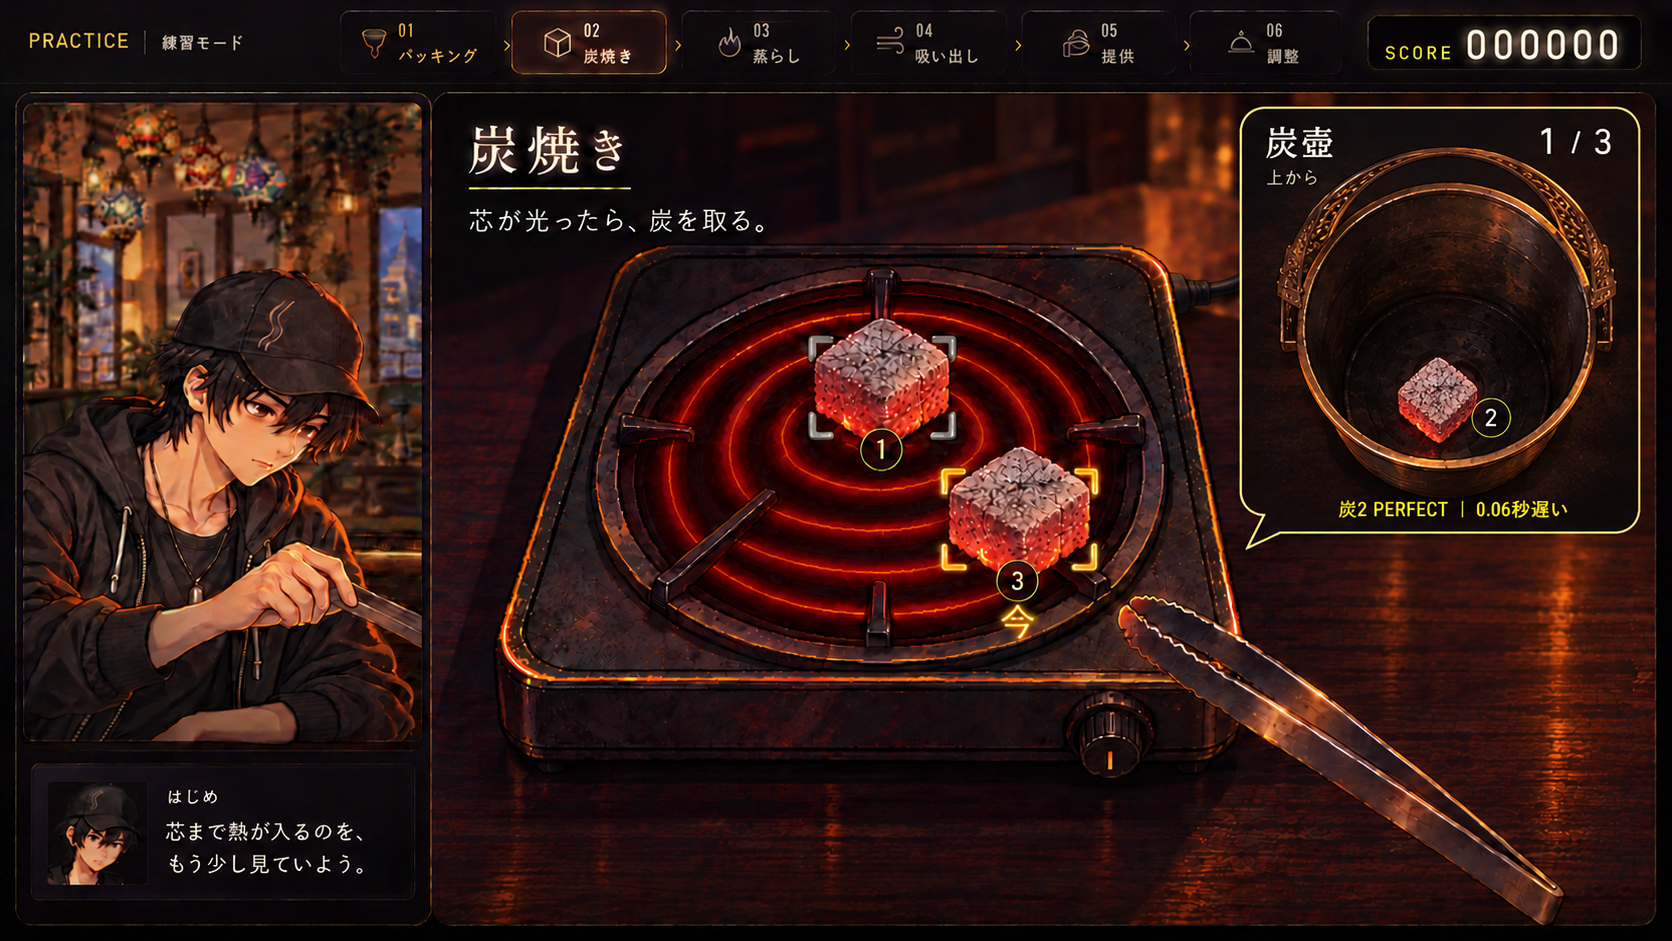
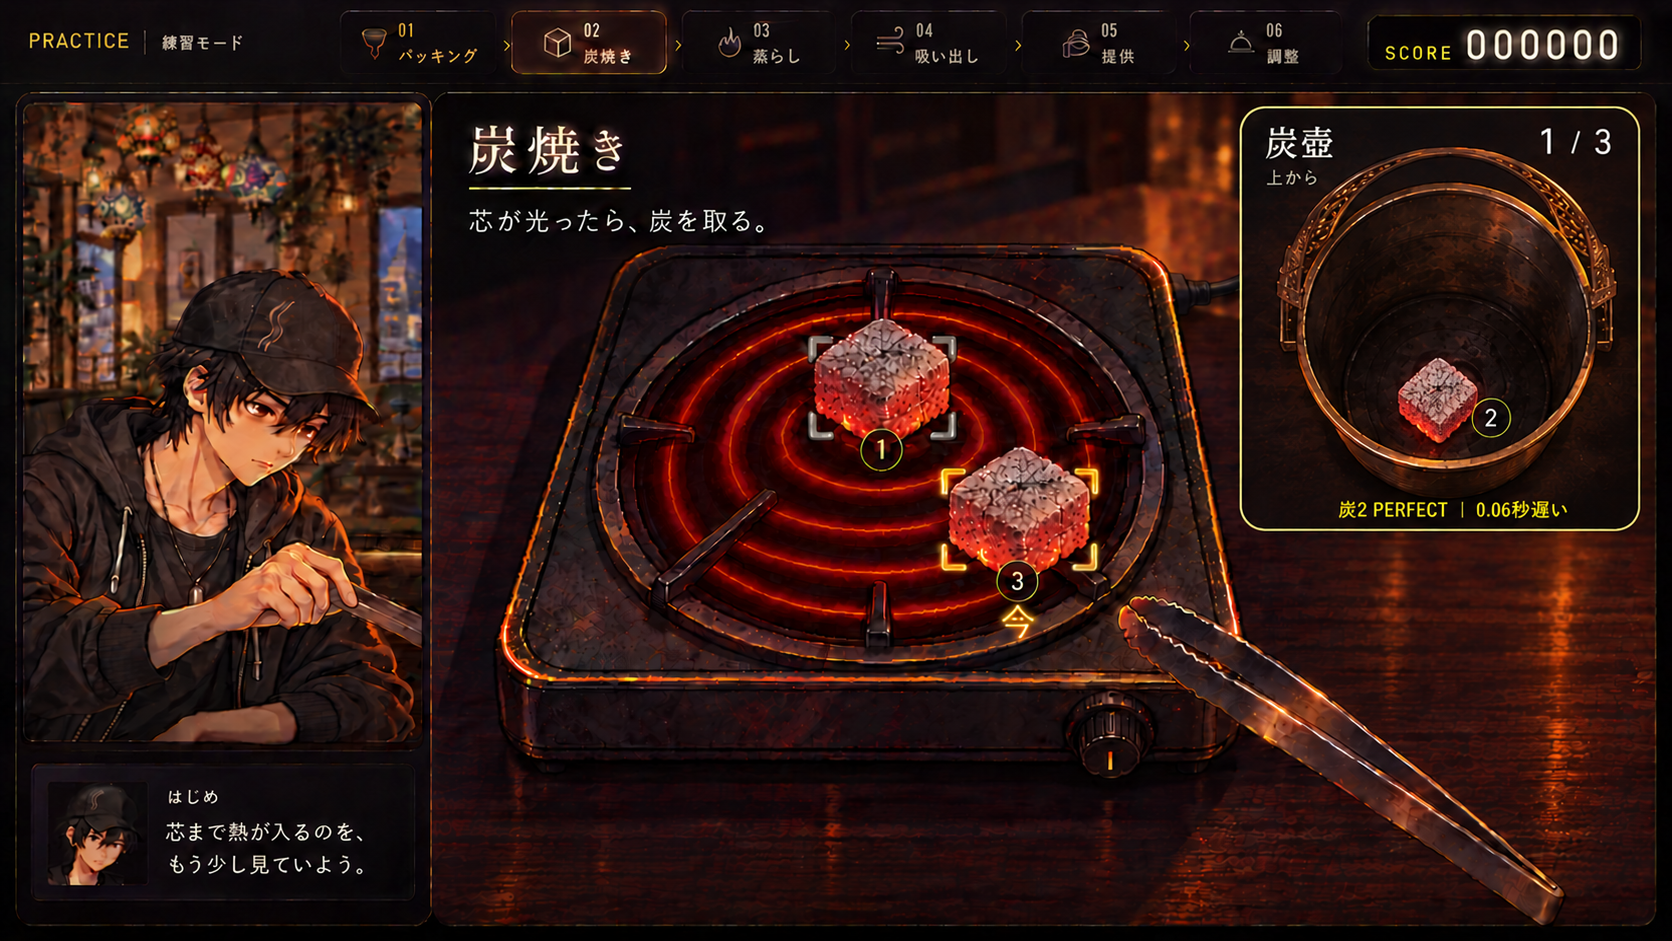
design(heat): remove pointer from rounded charcoal inset

diff --git a/asset_sources/coal-heat-ui-proposals/hybrid.html b/asset_sources/coal-heat-ui-proposals/hybrid.html
@@ -14,14 +14,14 @@
 <header><div><p class="eyebrow">水煙前線 -EN:CODE-　／　A × B HYBRID</p><h1>炭焼きUI</h1></div><div class="scope">静止モック<br>画像を押すと拡大</div></header>
 <main>
 <div class="toolbar"><div class="tabs" role="tablist" aria-label="取り出し前後"><button class="tab" role="tab" id="before" aria-selected="true" aria-controls="single" data-state="before">取り出す前 · 0/3</button><button class="tab" role="tab" id="after" aria-selected="false" aria-controls="single" tabindex="-1" data-state="after">1個回収後 · 1/3</button></div><button class="compare-btn" id="compare" aria-pressed="false">前後を並べる</button></div>
-<section id="single" role="tabpanel" aria-labelledby="before"><div class="viewer"><img id="hero" src="AB-hybrid-before.png?rev=inset-v4" alt="取り出し前。コンロに炭3個、炭壺に0個。コンロ後部に電源コード。右上の吹き出しには別視点で上から見た空の炭壺。" tabindex="0" data-zoom></div></section>
-<section class="both" id="both" aria-label="回収前後の比較" hidden><figure><img src="AB-hybrid-before.png?rev=inset-v4" alt="取り出し前：コンロに3個、炭壺に0個。" tabindex="0" data-zoom><figcaption>取り出す前 · 0/3</figcaption></figure><figure><img src="AB-hybrid-after.png?rev=inset-v4" alt="1個回収後：コンロに2個、別視点の吹き出しの炭壺に炭2が1個。" tabindex="0" data-zoom><figcaption>1個回収後 · 1/3</figcaption></figure></section>
+<section id="single" role="tabpanel" aria-labelledby="before"><div class="viewer"><img id="hero" src="AB-hybrid-before.png?rev=panel-v5" alt="取り出し前。コンロに炭3個、炭壺に0個。コンロ後部に電源コード。右上の角丸小窓には別視点で上から見た空の炭壺。" tabindex="0" data-zoom></div></section>
+<section class="both" id="both" aria-label="回収前後の比較" hidden><figure><img src="AB-hybrid-before.png?rev=panel-v5" alt="取り出し前：コンロに3個、炭壺に0個。" tabindex="0" data-zoom><figcaption>取り出す前 · 0/3</figcaption></figure><figure><img src="AB-hybrid-after.png?rev=panel-v5" alt="1個回収後：コンロに2個、別視点の角丸小窓の炭壺に炭2が1個。" tabindex="0" data-zoom><figcaption>1個回収後 · 1/3</figcaption></figure></section>
 </main>
 <footer><a href="README.md">提案・制作記録</a></footer>
 <dialog id="zoom"><div class="bar"><span id="zoom-title"></span><button class="close" id="close">閉じる　Esc</button></div><img id="zoom-image" alt=""></dialog>
-<div id="board"><div class="board-top"><p class="eyebrow">水煙前線 -EN:CODE-　／　A × B HYBRID</p><h1>炭焼きUI</h1></div><div class="both"><figure><img src="AB-hybrid-before.png?rev=inset-v4" alt="取り出し前"><figcaption>取り出す前 · コンロ3個 ／ 炭壺0個</figcaption></figure><figure><img src="AB-hybrid-after.png?rev=inset-v4" alt="1個回収後"><figcaption>1個回収後 · コンロ2個 ／ 炭壺1個</figcaption></figure></div></div>
+<div id="board"><div class="board-top"><p class="eyebrow">水煙前線 -EN:CODE-　／　A × B HYBRID</p><h1>炭焼きUI</h1></div><div class="both"><figure><img src="AB-hybrid-before.png?rev=panel-v5" alt="取り出し前"><figcaption>取り出す前 · コンロ3個 ／ 炭壺0個</figcaption></figure><figure><img src="AB-hybrid-after.png?rev=panel-v5" alt="1個回収後"><figcaption>1個回収後 · コンロ2個 ／ 炭壺1個</figcaption></figure></div></div>
 <script>
-const states={before:{file:'AB-hybrid-before.png?rev=inset-v4',alt:'取り出し前：コンロに3個、炭壺に0個。'},after:{file:'AB-hybrid-after.png?rev=inset-v4',alt:'1個回収後：コンロに2個、別視点の吹き出しの炭壺に炭2が1個。'}};
+const states={before:{file:'AB-hybrid-before.png?rev=panel-v5',alt:'取り出し前：コンロに3個、炭壺に0個。'},after:{file:'AB-hybrid-after.png?rev=panel-v5',alt:'1個回収後：コンロに2個、別視点の角丸小窓の炭壺に炭2が1個。'}};
 const tabs=[...document.querySelectorAll('.tab')],single=document.getElementById('single'),both=document.getElementById('both'),compare=document.getElementById('compare');let current='before';
 function show(key){current=key;const s=states[key];tabs.forEach(t=>{const on=t.dataset.state===key;t.setAttribute('aria-selected',String(on));t.tabIndex=on?0:-1});single.setAttribute('aria-labelledby',key);document.getElementById('hero').src=s.file;document.getElementById('hero').alt=s.alt;single.hidden=false;both.hidden=true;compare.setAttribute('aria-pressed','false');history.replaceState(null,'','#'+key)}
 tabs.forEach((t,i)=>{t.addEventListener('click',()=>show(t.dataset.state));t.addEventListener('keydown',e=>{let n;if(e.key==='ArrowLeft'||e.key==='ArrowRight')n=1-i;if(e.key==='Home')n=0;if(e.key==='End')n=1;if(n!==undefined){e.preventDefault();show(tabs[n].dataset.state);tabs[n].focus()}})});

diff --git a/asset_sources/coal-heat-ui-proposals/README.md b/asset_sources/coal-heat-ui-proposals/README.md
@@ -2,7 +2,7 @@
 
 ## 最新の選定モック：A/B統合・実物の炭と炭壺
 
-ユーザーがA/Bのハイブリッドを選定。炭の質感と炭壺を実物に寄せ、凡例を削除し、電源コードを後部へ修正。最新モックでは炭壺を右上の独立した吹き出しへ移し、上から見る別視点として表示する。回収炭は灰・欠けた輪郭・番号2で、取る前の炭とのつながりを見せる。
+ユーザーがA/Bのハイブリッドを選定。炭の質感と炭壺を実物に寄せ、凡例を削除し、電源コードを後部へ修正。最新モックでは炭壺を右上の独立した角丸小窓へ移し、上から見る別視点として表示する。回収炭は灰・欠けた輪郭・番号2で、取る前の炭とのつながりを見せる。
 
 [専用プレビュー](https://shisha-coal-ui-preview.briskdill17.chatgpt.site) ／ [統合版の前後比較ページ](hybrid.html) ／ [前後の一覧画像](hybrid-comparison.png) ／ [実物の参考と描き分け](hybrid-reference.md)
 
@@ -11,15 +11,15 @@
 ![A/B統合：1個回収後](AB-hybrid-after.png)
 
 - **焼け頃の炭**：薄い白〜灰色の灰と赤い熾き。大きな黒い未着火の面・溶岩の割れ目・白い火口を見直し、圧縮された炭の細かな粒を描く。
-- **回収先**：単一の深い金属の炭壺を、右上の吹き出しに上から表示。枠・尾・視点の違いで別のカメラだと示す。仕切りや3つの収納枠は使わない。
+- **回収先**：単一の深い金属の炭壺を、右上の角丸小窓に上から表示。枠・視点の違いで別のカメラだと示す。仕切りや3つの収納枠は使わない。
 - **操作**：Aの寄り画と静かなコイルを土台に、Bの番号・角括弧・「今」を加える。実物の灰・熾きと、ゲーム用の判定合図を分ける。
-- **個数**：取り出し前はコンロ3個／壺0個。1個回収後はコンロ2個／壺1個。回収数と短い判定記録は吹き出しの中へまとめる。
+- **個数**：取り出し前はコンロ3個／壺0個。1個回収後はコンロ2個／壺1個。回収数と短い判定記録は角丸小窓の中へまとめる。
 - **説明の整理**：「黒い芯→赤熱→芯が光る→灰かぶり」の常設カードを画像から削除。比較ページ下の説明も外し、画像と前後切替を中心にする。
 - **電源**：前面の誤った接続部と下のコードを削除し、コンロ後部の右寄りから一本のコードを引き出す。加熱部を跨がず、奥の台から画面外の電源へ続く。
 - **持ち手**：長い持ち手は小窓の奥側へ向け、上から中身を見られる姿勢へ。深い一つの受け部を維持する。
 - **炭のつながり**：整った別のキューブへ置換せず、灰の粒・欠けた角・赤い熾きを回収炭にも残す。番号2も添え、元の操作対象と対応させる。小窓は独立した視点なので、メインと同じ距離にある小さな物体として見せない。
 
-[今回の構図・編集指示・原画確認](hybrid-inset-generation.json)。同じ机の上に小さな炭壺を置いていた前版と寸法計算は [iterations/hybrid-v3/](iterations/hybrid-v3/) に保存。前面コード版は [iterations/hybrid-v2/](iterations/hybrid-v2/)、説明カードあり・電源コードなし版は [iterations/hybrid-v1/](iterations/hybrid-v1/) に保存。
+左下の突起は最新指示で削除し、普通の角丸四角に統一した。[今回の構図・編集指示・原画確認](hybrid-inset-generation.json)。同じ机の上に小さな炭壺を置いていた前版と寸法計算は [iterations/hybrid-v3/](iterations/hybrid-v3/) に保存。前面コード版は [iterations/hybrid-v2/](iterations/hybrid-v2/)、説明カードあり・電源コードなし版は [iterations/hybrid-v1/](iterations/hybrid-v1/) に保存。
 
 統合版も採用前の静止モック。本編操作・採点・回収アニメーションは未接続。旧3案と初版は比較履歴として残す。下の旧案に描かれた炭の質感と3区画の回収皿は採用しない。
 
